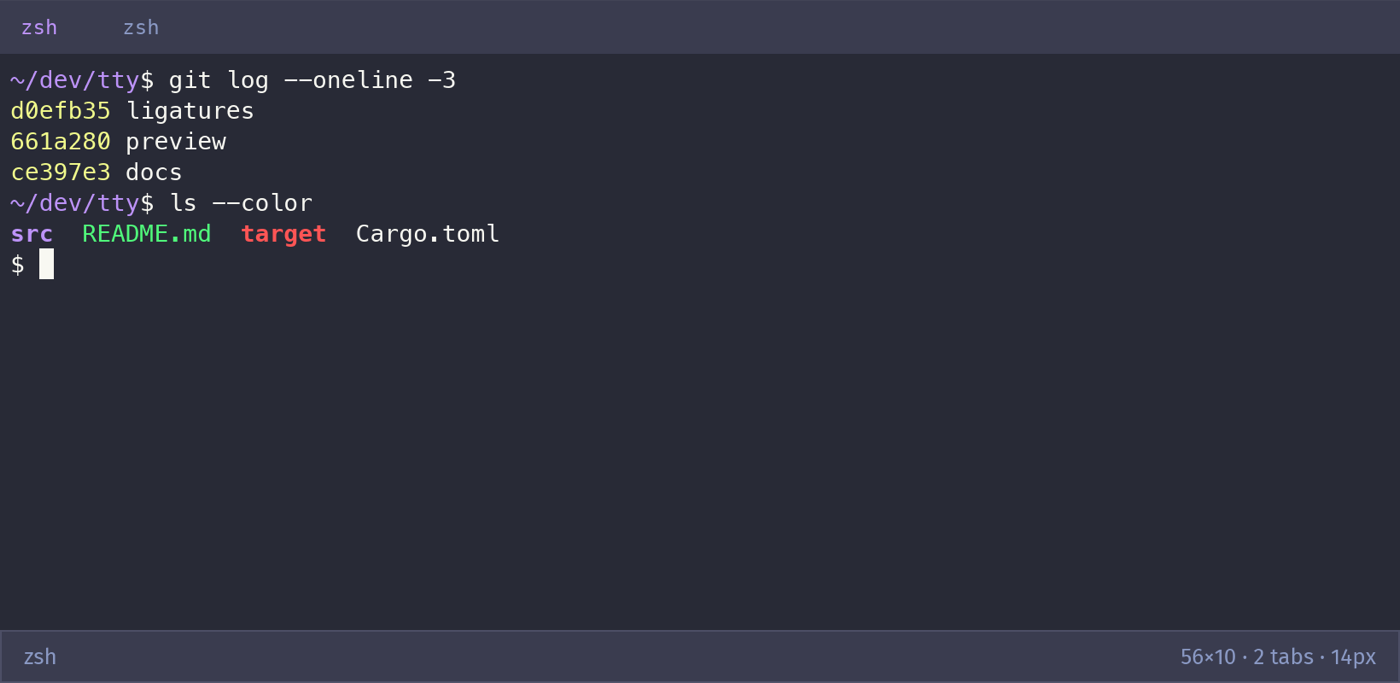
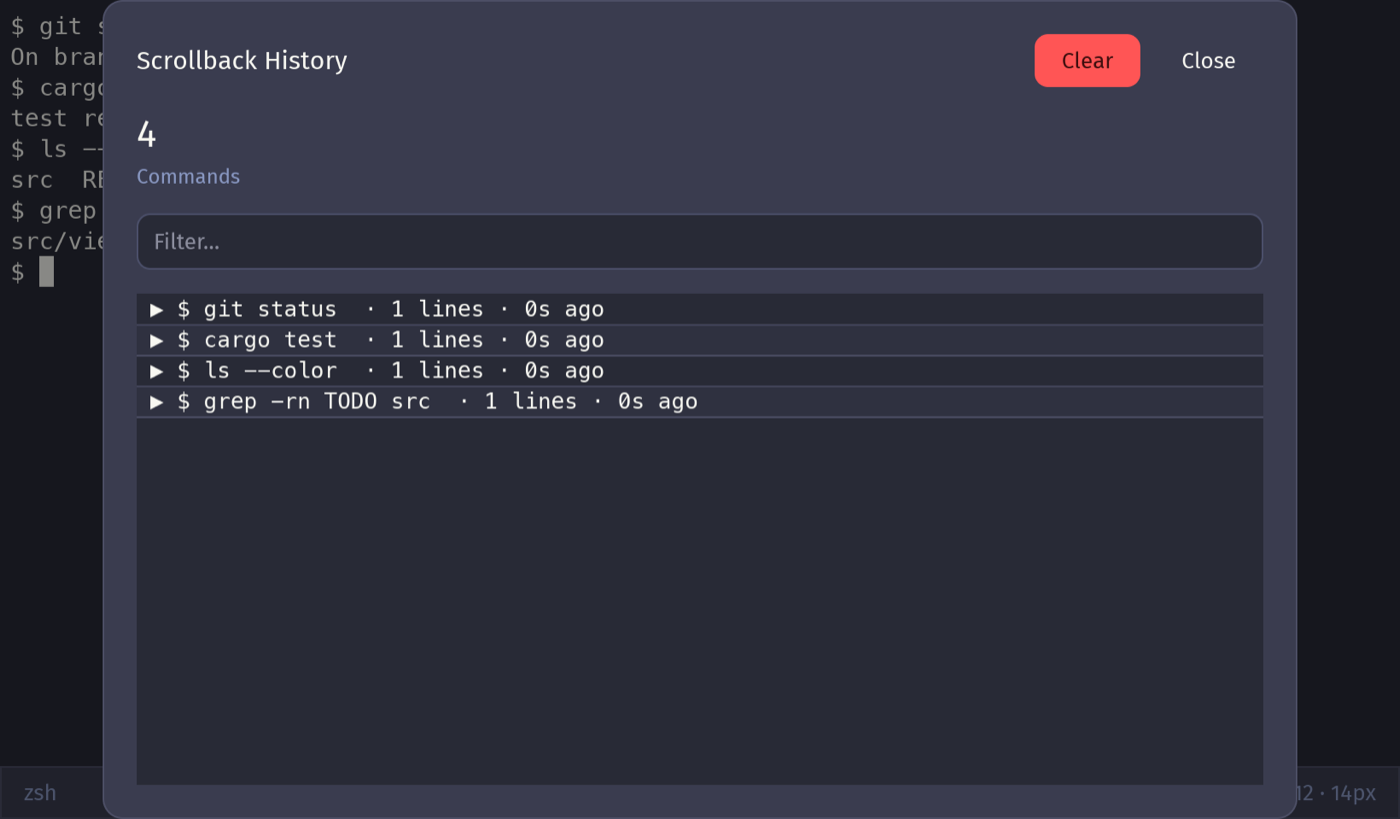
web: give encrypted command history its own slide
Elevates encrypted history from a single bullet on the scrollback slide to its own
slide (deck 8 → 9). "Command history, your call → Recall every command, or none":
⌘⇧H searchable log, opt-in encrypted-at-rest persistence (command text only), and the
untracked / --untracked incognito path — off by default. Framed opt-in/privacy-first,
in keeping with the no-bloat tone.

Its screenshot is the real ⌘⇧H Scrollback History panel (searchable list of commands),
added to `generate_landing_shots`. The old scrollback slide keeps its own capture,
renamed `scrollback.png`.

Claude-Session: https://claude.ai/code/session_015Phak3C3ReTTUdQSvcfzm7

Changed region(s): [[0.0, 0.0, 1.0, 1.0]]

diff --git a/tty/src/snapshot.rs b/tty/src/snapshot.rs
@@ -2293,7 +2293,7 @@ fn generate_landing_shots() {
     ));
     save(&tty, "shell", TW, TH);
 
-    // history — a longer colored transcript (scrollback feel)
+    // scrollback — a longer colored transcript (scrollback feel)
     let mut tty = populated();
     tty.tabs[0] = Tab::new(painted_term(
         "zsh",
@@ -2304,7 +2304,45 @@ fn generate_landing_shots() {
           \x1b[34m~/dev/tty\x1b[0m$ ls --color\r\n\
           \x1b[1;34msrc\x1b[0m  \x1b[32mREADME.md\x1b[0m  \x1b[1;31mtarget\x1b[0m  Cargo.toml\r\n$ ",
     ));
-    save(&tty, "history", TW, 400.0);
+    save(&tty, "scrollback", TW, 400.0);
+
+    // history — the ⌘⇧H searchable command log (the encrypted-history feature)
+    {
+        let mut screen = TerminalScreen::new(56, 12);
+        let mut parser = TermParser::new();
+        for (cmd, out) in [
+            (
+                b"$ git status".as_slice(),
+                b"\r\nOn branch main - clean\r\n".as_slice(),
+            ),
+            (b"$ cargo test", b"\r\ntest result: ok. 312 passed\r\n"),
+            (b"$ ls --color", b"\r\nsrc  README.md  target\r\n"),
+            (
+                b"$ grep -rn TODO src",
+                b"\r\nsrc/view.rs:88: TODO polish\r\n",
+            ),
+        ] {
+            parser.process(cmd, &mut screen);
+            screen.mark_command_boundary(50);
+            parser.process(out, &mut screen);
+        }
+        parser.process(b"$ ", &mut screen);
+        let tab = Term {
+            screen: Arc::new(Mutex::new(screen)),
+            pty: None,
+            title: "zsh".into(),
+            alive: Arc::new(AtomicBool::new(true)),
+            dirty: Arc::new(AtomicBool::new(false)),
+            activity: false,
+            env_file: None,
+        };
+        let mut tty = Tty {
+            tabs: vec![Tab::new(tab)],
+            ..populated()
+        };
+        tty.show_scrollback = true;
+        save(&tty, "history", TW, 480.0);
+    }
 
     // embed — the phosphor widget usage, in a terminal
     let mut tty = populated();
